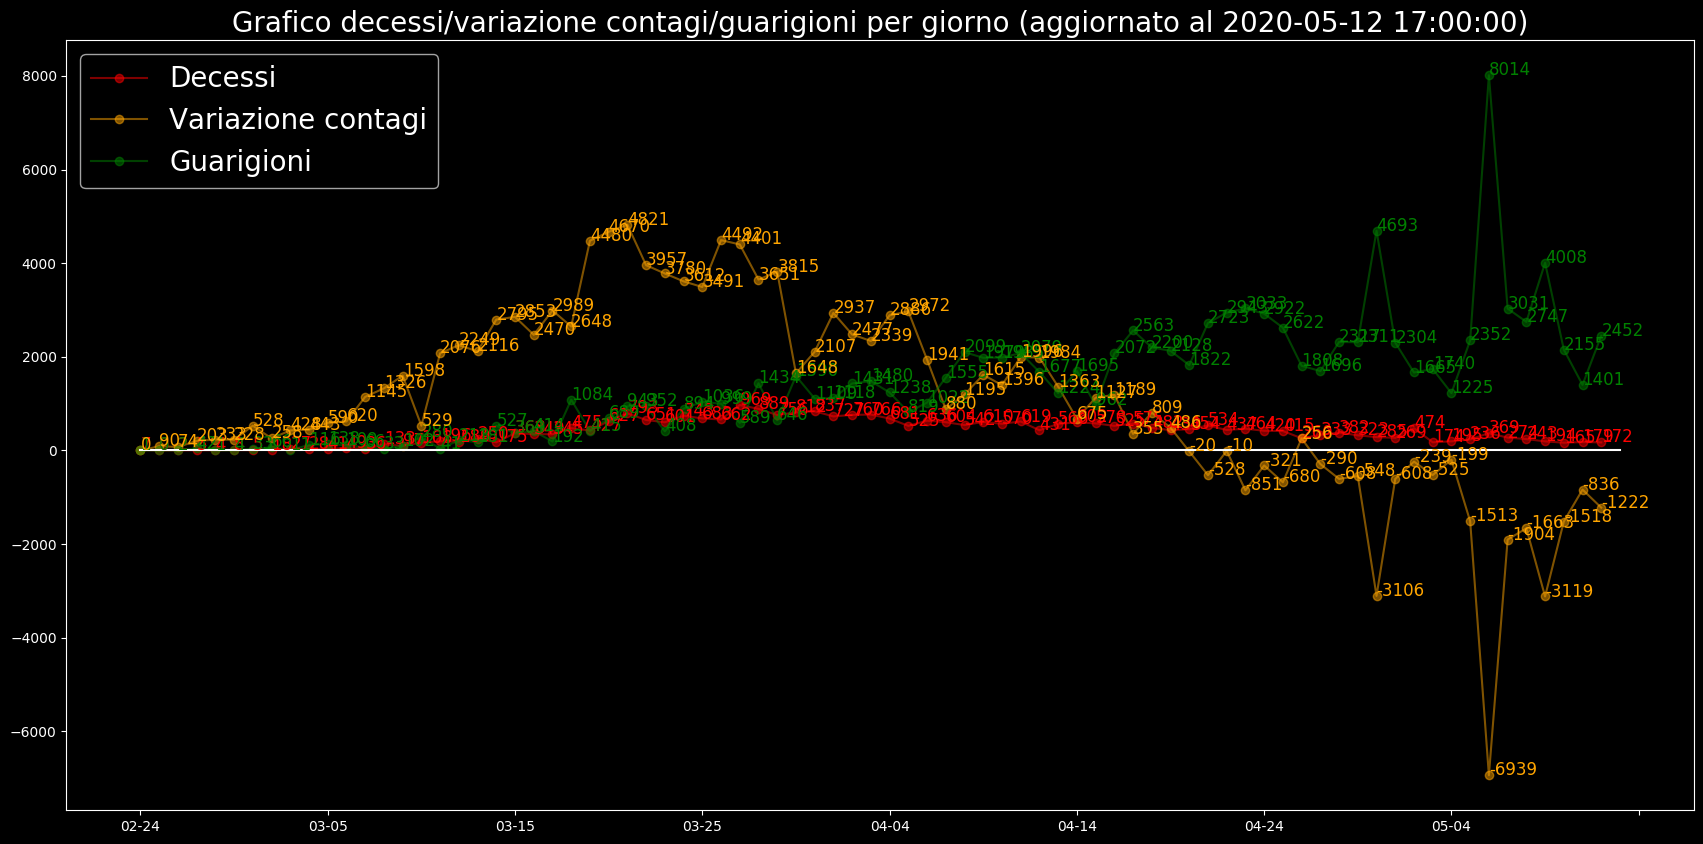
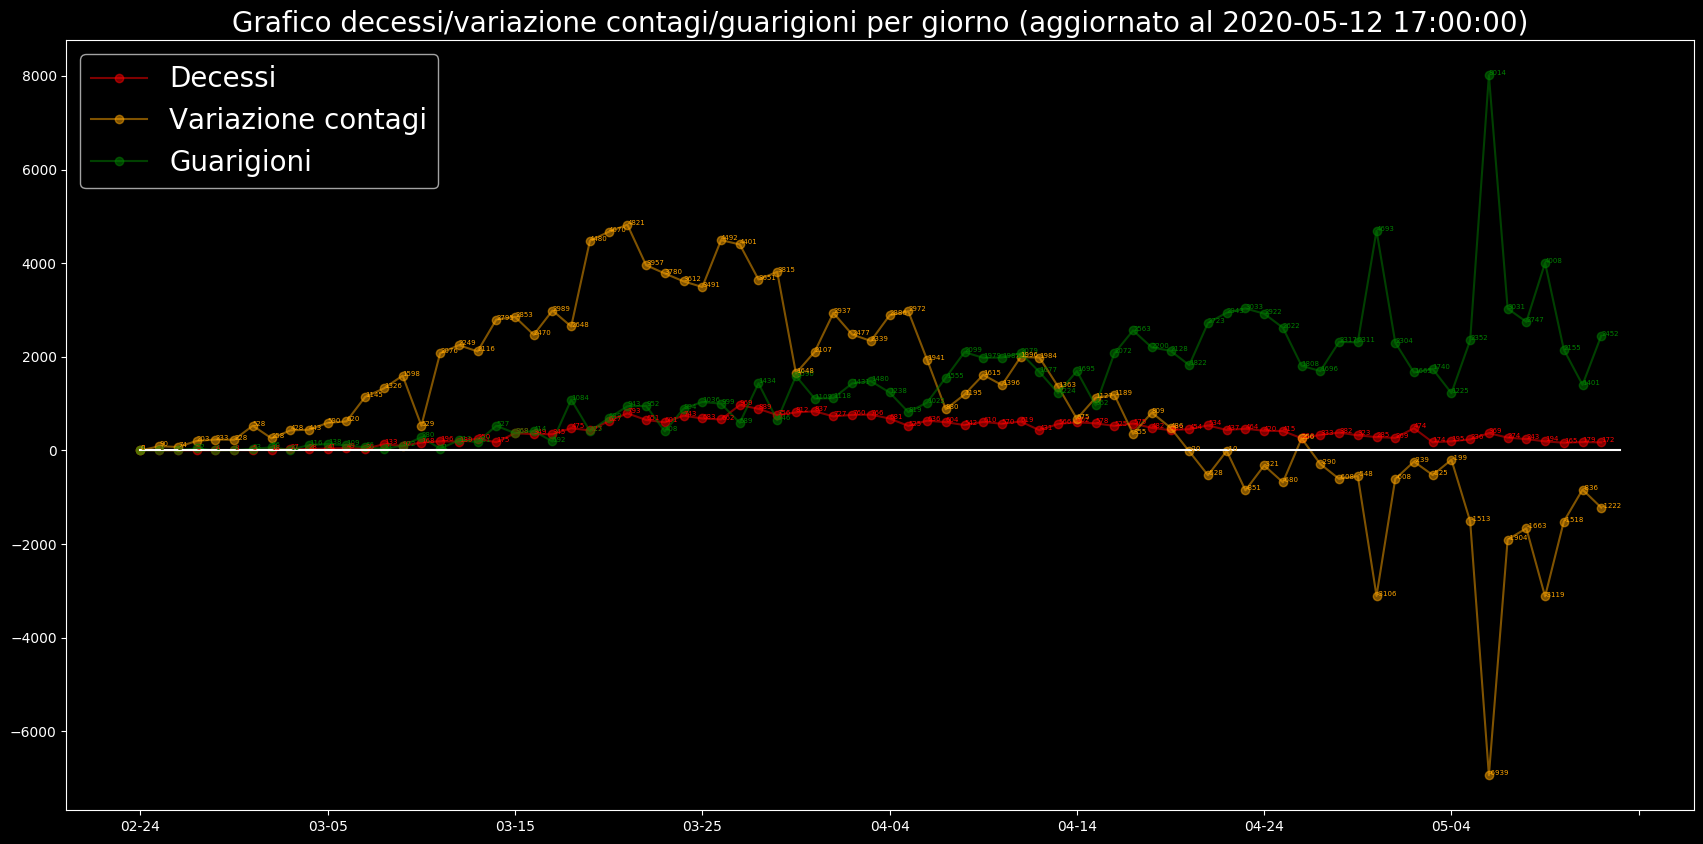
Added 12-05

diff --git a/covid19graphs/src/ContHealDeathPerDay.py b/covid19graphs/src/ContHealDeathPerDay.py
@@ -34,7 +34,7 @@ def dayperday(listelements):
 def addtext(list1, list2, colore):
     i = 0
     for x, y in zip(list1, list2):
-        plt.text(i, y, str(y), fontsize=12, color=colore)
+        plt.text(i, y, str(y), fontsize=5, color=colore)
         i += 1
 
 #Funzione di salvataggio del grafico
